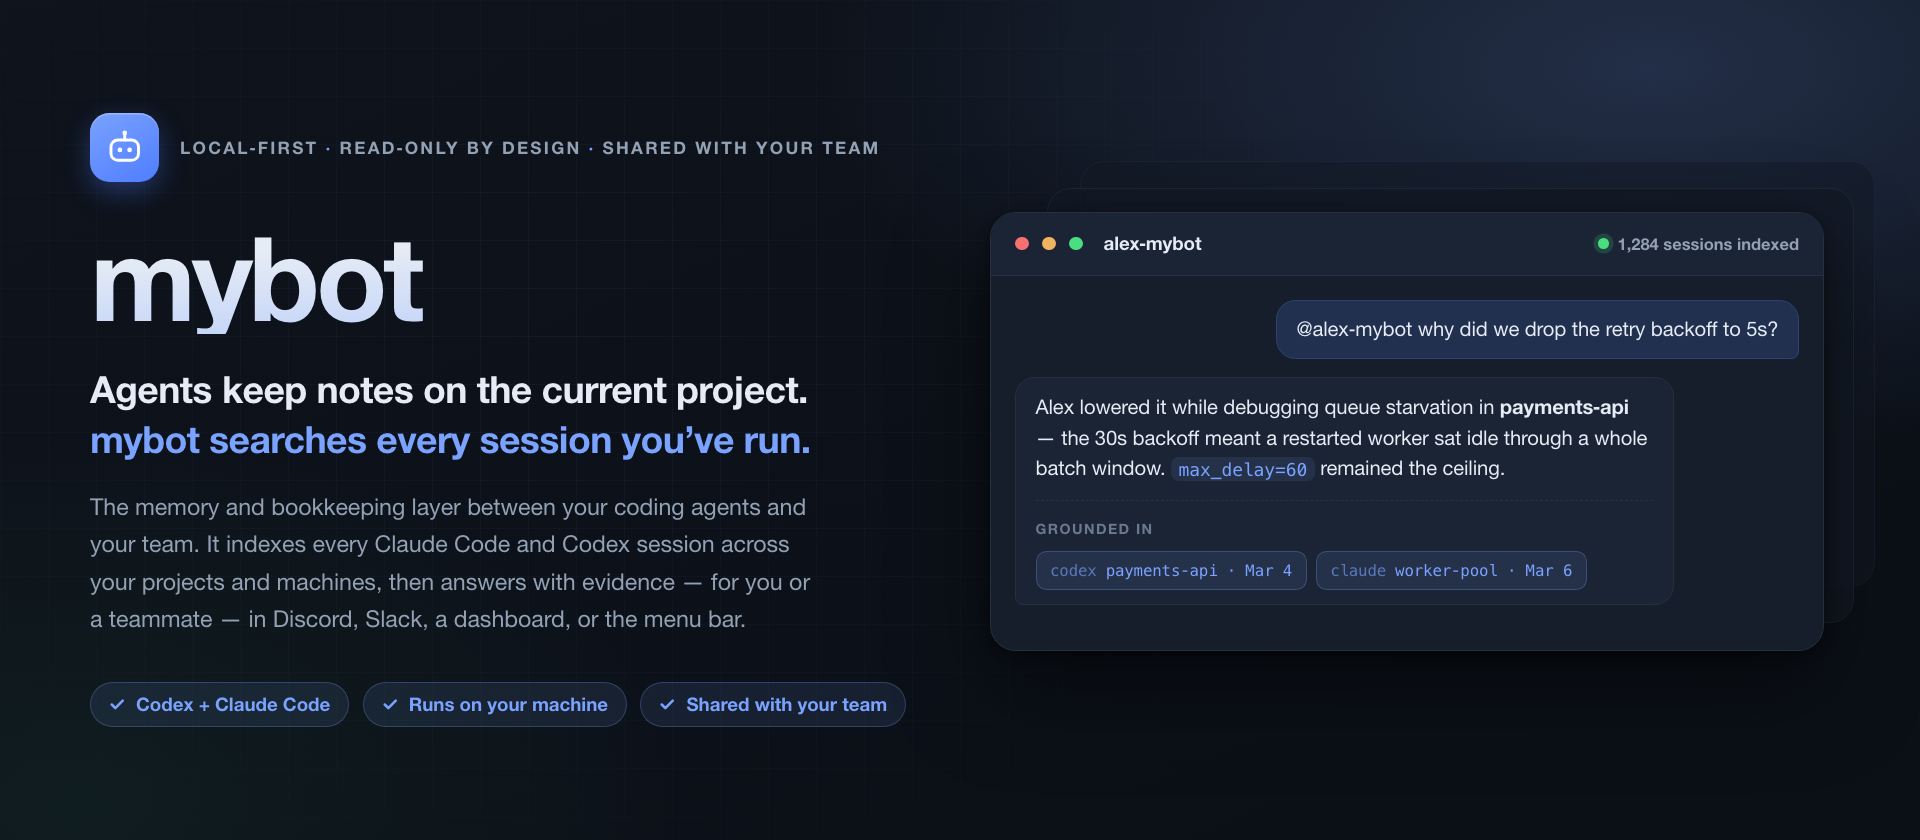
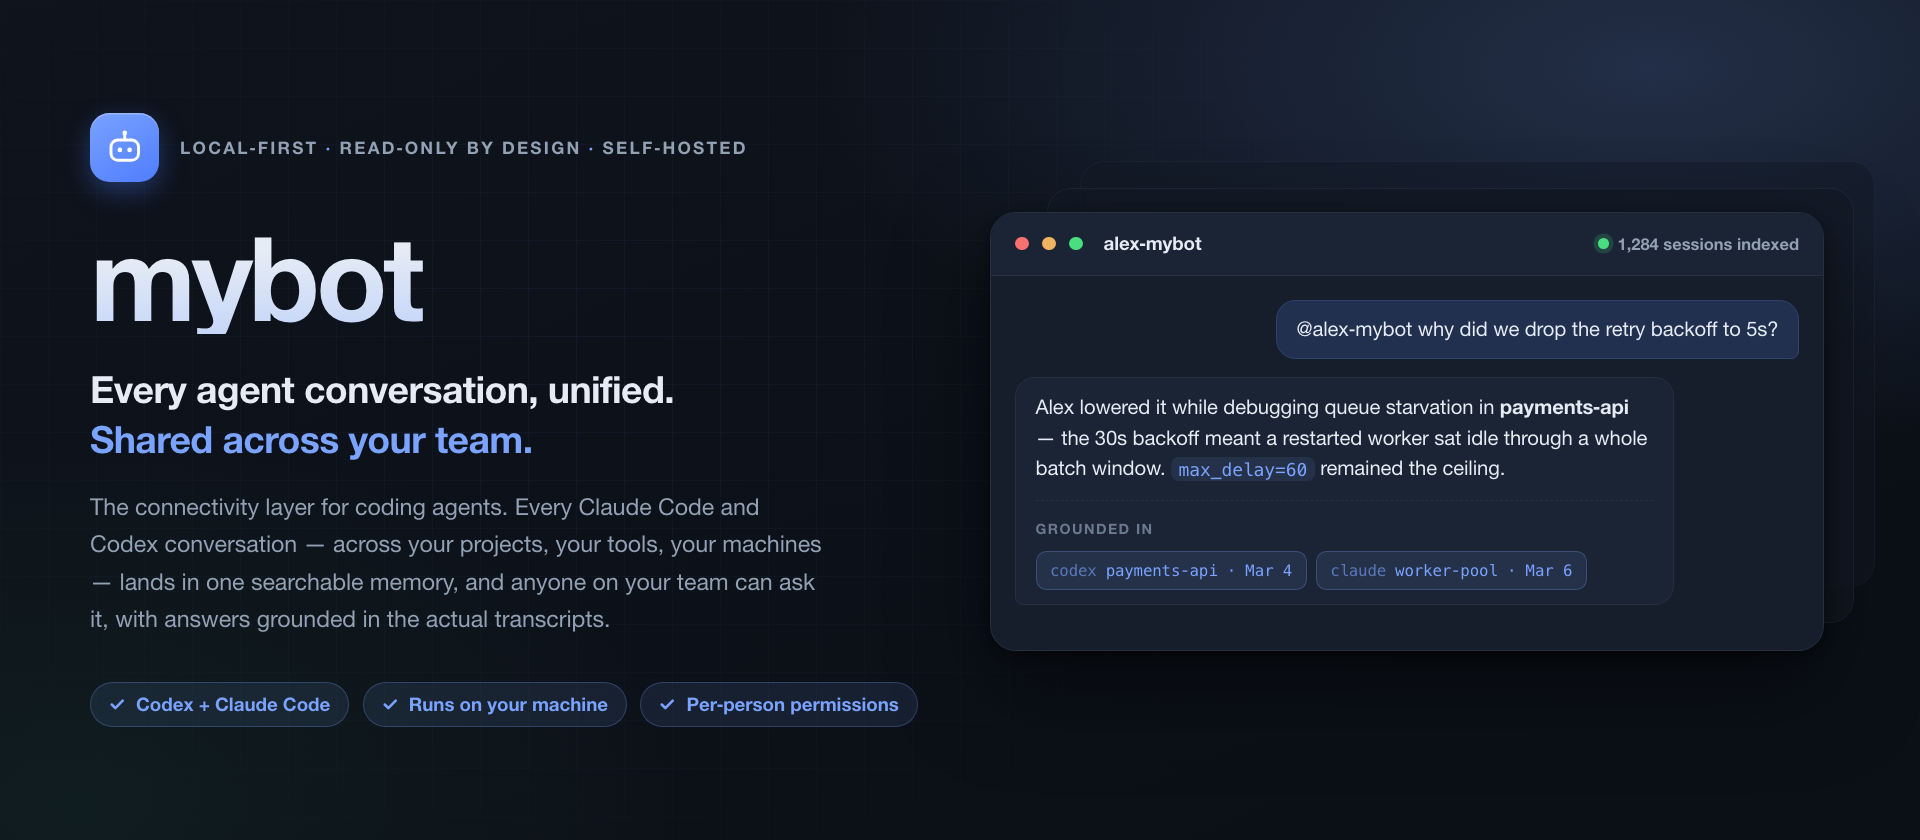
Lead with the connectivity claim: unify every conversation, share it with the team
Retrieval is the mechanism, not the identity. State what mybot is in the first
line — the connectivity layer that unifies every conversation with your coding
agents and shares it across a team — then explain the fragmentation it resolves
(one transcript per session, per tool, per project, per machine, per person) and
the sharing model, rather than opening with search.

Hero follows: "Every agent conversation, unified. / Shared across your team."

diff --git a/docs/assets/hero.html b/docs/assets/hero.html
@@ -232,18 +232,18 @@
             <circle cx="15.1" cy="13.4" r="1.5" fill="#fff"/>
           </svg>
         </div>
-        <div class="eyebrow">Local&#8209;first <b>&middot;</b> Read&#8209;only by design <b>&middot;</b> Shared with your team</div>
+        <div class="eyebrow">Local&#8209;first <b>&middot;</b> Read&#8209;only by design <b>&middot;</b> Self&#8209;hosted</div>
       </div>
 
       <h1>mybot</h1>
 
-      <div class="tagline">Agents keep notes on the current project.<br><em>mybot searches every session you&rsquo;ve run.</em></div>
+      <div class="tagline">Every agent conversation, unified.<br><em>Shared across your team.</em></div>
 
       <div class="sub">
-        The memory and bookkeeping layer between your coding agents and your team. It
-        indexes every Claude Code and Codex session across your projects and machines,
-        then answers with evidence &mdash; for you or a teammate &mdash; in Discord,
-        Slack, a dashboard, or the menu bar.
+        The connectivity layer for coding agents. Every Claude Code and Codex
+        conversation &mdash; across your projects, your tools, your machines &mdash;
+        lands in one searchable memory, and anyone on your team can ask it, with
+        answers grounded in the actual transcripts.
       </div>
 
       <div class="chips">
@@ -257,7 +257,7 @@
         </div>
         <div class="chip">
           <svg width="11" height="11" viewBox="0 0 12 12" fill="none"><path d="M2 6.2l2.6 2.6L10 3.4" stroke="currentColor" stroke-width="1.9" stroke-linecap="round" stroke-linejoin="round"/></svg>
-          Shared with your team
+          Per&#8209;person permissions
         </div>
       </div>
     </div>

diff --git a/README.md b/README.md
@@ -2,7 +2,7 @@
   <picture>
     <source media="(prefers-color-scheme: dark)" srcset="docs/assets/hero-dark.png">
     <source media="(prefers-color-scheme: light)" srcset="docs/assets/hero-light.png">
-    <img src="docs/assets/hero-dark.png" alt="mybot — the memory and bookkeeping layer between your coding agents and your team" width="900">
+    <img src="docs/assets/hero-dark.png" alt="mybot — every agent conversation unified, shared across your team" width="900">
   </picture>
 </p>
 
@@ -15,26 +15,28 @@
 
 ---
 
-Claude Code and Codex carry a little memory of their own: instruction files you
-keep per project, and the ability to resume a recent session. What neither does
-is retrieval — searching everything you have actually done, across both tools,
-every project, every machine, and every teammate, and answering with evidence.
-That is usually where the context you need is sitting.
+**mybot is the connectivity layer for coding agents: it unifies every
+conversation you have with them, and shares that across your team.**
 
-mybot fills that gap — the memory and bookkeeping layer between your coding
-agents and your team. It indexes every Claude Code and Codex transcript on your
-machine into a local searchable index, then puts an agent in front of it: ask in
+Work with agents is fragmented by construction — one transcript per session, per
+tool, per project, per machine, per person. Claude Code and Codex each carry a
+little memory of their own, in per-project instruction files and the ability to
+resume a recent session, but nothing joins those conversations together and
+nothing carries them to the person sitting next to you.
+
+mybot joins them. Every Claude Code and Codex conversation on your machine is
+indexed into one local, searchable memory, with an agent in front of it: ask in
 plain language and it searches, refines its own queries, reopens the sessions
 that look relevant, and answers with dates and links back to the exact
-transcript window it used.
-Nothing leaves your machine — the index, the embeddings, and the model calls to
-your local CLI all stay local.
+transcript window it used. Nothing leaves your machine — the index, the
+embeddings, and the model calls to your local CLI all stay local.
 
-It is also built to be shared. Each person runs their own instance over their
-own history, and the bot answers on its owner's behalf, within limits its owner
-sets. So a teammate can ask what you decided and get a grounded answer in
-seconds rather than waiting for you to be at a keyboard. Getting a team onto the
-same page stops being blocked on human latency.
+Then it shares. Each person runs their own instance over their own history, and
+the bot answers on its owner's behalf within limits the owner sets, so a
+teammate asks what you decided and gets a grounded answer in seconds instead of
+waiting for you to be at a keyboard. The context a team normally rebuilds
+through standups and interruptions is already written down in everyone's
+transcripts — this makes it queryable, without the human latency.
 
 **Questions it is built to answer**
 
